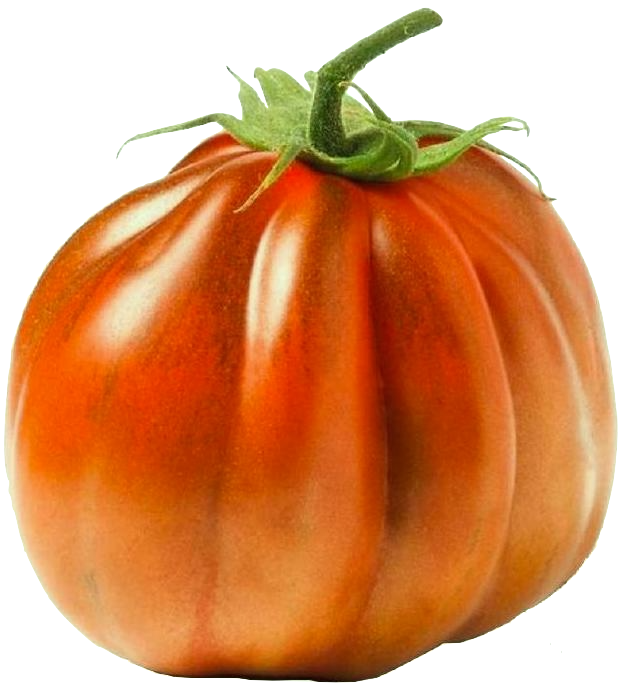
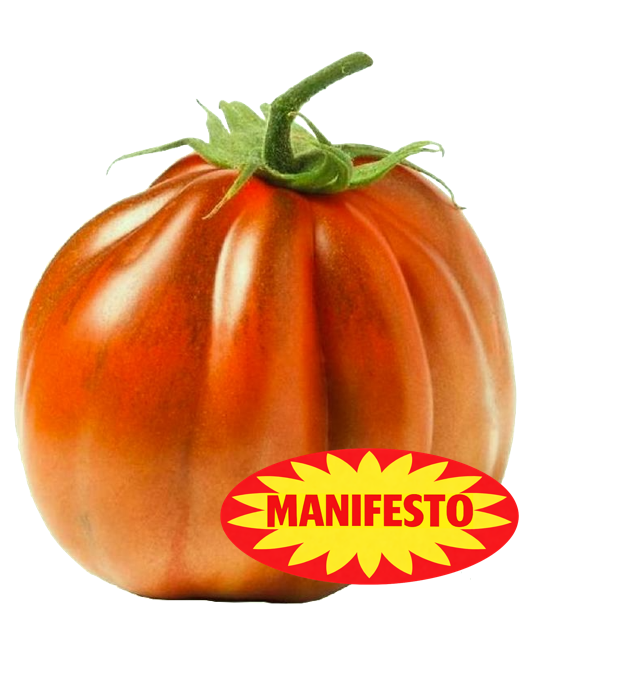
new index

diff --git a/index.html b/index.html
@@ -29,49 +29,43 @@
 <body class="index-body">
     <main>
         <div class="container-fluid">
-            <div class="row d-flex justify-content-evenly align-items-center min-vh-100 text-center">
+            <div class="row d-flex justify-content-center align-items-center min-vh-100 text-center">
 
                 <!-- tomato cards -->
 
-                <!-- MANIFESTO -->
-                <div class="col-12 col-md-2 d-flex justify-content-center align-items-center">
-                    <div class="index-image-card">
-                        <a href="manifesto.html">
-                        <img src="assets/images/tomato08.png" alt="Default view" class="img-default">
-                        <img src="assets/images/Sugo-Splash.png" alt="Hover view" class="img-hover">
-                        <div class="overlay-text">
-                            MANIFESTO
+
+                <div class="index-links">
+                    <!-- MANIFESTO -->
+                    <div class="index-link-item">
+                        <div class="index-image-card mx-3">
+                            <a href="manifesto.html">
+                                <img src="assets/images/tomato.png" alt="Manifesto" class="img-default">
+                                <img src="assets/images/bollino-manifesto.png" alt="" class="hover-tag">
+                            </a>
                         </div>
-                        </a>
+                    </div>
+
+                    <!-- STORE -->
+                    <div class="index-link-item">
+                        <div class="index-image-card mx-3">
+                            <a href="store.html">
+                                <img src="assets/images/tomato.png" alt="Store" class="img-default">
+                                <img src="assets/images/bollino-store.png" alt="" class="hover-tag">
+                            </a>
+                        </div>
+                    </div>
+
+                    <!-- RADIO -->
+                    <div class="index-link-item">
+                        <div class="index-image-card mx-3">
+                            <a href="radio.html">
+                                <img src="assets/images/tomato.png" alt="Radio" class="img-default">
+                                <img src="assets/images/bollino-radio.png" alt="" class="hover-tag">
+                            </a>
+                        </div>
                     </div>
                 </div>
 
-
-                <!-- STORE -->
-                <div class="col-12 col-md-2 d-flex justify-content-center align-items-center">
-                    <div class="index-image-card">
-                        <a href="store.html">
-                        <img src="assets/images/tomato07.png" alt="Default view" class="img-default">
-                        <img src="assets/images/Sugo-Splash.png" alt="Hover view" class="img-hover">
-                        <div class="overlay-text">
-                            STORE
-                        </div>
-                        </a>
-                    </div>
-                </div>
-
-                <!-- RADIO -->
-                <div class="col-12 col-md-2 d-flex justify-content-center align-items-center">
-                    <div class="index-image-card">
-                        <a href="radio.html">
-                        <img src="assets/images/tomato08.png" alt="Default view" class="img-default">
-                        <img src="assets/images/Sugo-Splash.png" alt="Hover view" class="img-hover">
-                        <div class="overlay-text">
-                            RADIO
-                        </div>
-                        </a>
-                    </div>
-                </div>
 
 
             </div>
@@ -79,19 +73,19 @@
     </main>
 
     <!-- Background layer -->
-    <!-- <div class="sugo-logo-layer">   </div> -->
+    <div class="sugo-logo-layer"> </div>
 
 
     <!-- Fontawsome -->
-  <script src="https://kit.fontawesome.com/9e128b115a.js" crossorigin="anonymous"></script>
+    <script src="https://kit.fontawesome.com/9e128b115a.js" crossorigin="anonymous"></script>
 
-  <!-- Bootstrap JavaScript -->
-  <script src="https://cdn.jsdelivr.net/npm/bootstrap@5.3.8/dist/js/bootstrap.bundle.min.js"
-    integrity="sha384-FKyoEForCGlyvwx9Hj09JcYn3nv7wiPVlz7YYwJrWVcXK/BmnVDxM+D2scQbITxI"
-    crossorigin="anonymous"></script>
+    <!-- Bootstrap JavaScript -->
+    <script src="https://cdn.jsdelivr.net/npm/bootstrap@5.3.8/dist/js/bootstrap.bundle.min.js"
+        integrity="sha384-FKyoEForCGlyvwx9Hj09JcYn3nv7wiPVlz7YYwJrWVcXK/BmnVDxM+D2scQbITxI"
+        crossorigin="anonymous"></script>
 
-  <!-- JS -->
-  <script src="assets/js/js.js"></script>
+    <!-- JS -->
+    <script src="assets/js/js.js"></script>
 
 
 </body>

diff --git a/assets/css/style.css b/assets/css/style.css
@@ -47,8 +47,8 @@
     height: 100vh;
     width: 100vw;
     inset: 0;
-    background-image: url("../images/sugo-transparent.png");
-    opacity: 1;
+    background-image: url("../images/sugo.png");
+    opacity: 0.4 !important;
     background-size: cover;
     background-position: center;
     background-repeat: no-repeat;
@@ -76,7 +76,7 @@
     width: 100vw;
     inset: 0;
     background-image: url("../images/sugo-boiling.gif");
-    opacity: 1;
+    opacity: 0.98;
     background-size: cover;
     background-position: center;
     background-repeat: no-repeat;
@@ -99,7 +99,7 @@
 }
 
 .index-body {
-    background-image: url("../images/sugo.png");
+    /* background-image: url("../images/sugo.png"); */
     background-size: cover;
     background-position: center;
     background-repeat: no-repeat;
@@ -109,8 +109,79 @@
 
 /* INDEX-PAGE */
 
-.index-body .col-md-2 {
-    min-width: 235px !important;
+.index-links {
+    display: flex;
+    justify-content: center;
+    align-items: center;
+    gap: 2rem; /* keeps the spacing between the 3 images */
+    flex-wrap: nowrap; /* prevents the 2-on-top / 1-below layout */
+}
+
+.index-link-item {
+    flex: 0 0 auto;
+}
+
+/* NEW TAGS */
+
+.index-image-card {
+    position: relative;
+    height: 200px;
+    width: 230px;
+    overflow: visible;
+}
+
+.index-image-card a {
+    display: block;
+    position: relative;
+    width: 100%;
+    height: 100%;
+}
+
+.index-image-card .img-default {
+    position: absolute;
+    top: 50%;
+    left: 50%;
+    width: 200px;
+    height: auto;
+    transform: translate(-50%, -50%);
+    transition: opacity 0.3s ease;
+    z-index: 1;
+}
+
+.hover-tag {
+    position: absolute;
+    width: 132px;
+    height: auto;
+    right: 8px;
+    bottom: 6px;
+    opacity: 0;
+    transform: translateY(2px);
+    transition: opacity 0.2s ease, transform 0.2s ease;
+    pointer-events: none;
+    z-index: 2;
+}
+
+@media (hover: none) { 
+    .hover-tag {
+        opacity: 1;
+        transform: translateY(0);
+    }
+}
+
+.index-image-card:hover .hover-tag {
+    opacity: 1;
+    transform: translateY(0);
+}
+
+
+/* END NEW TAGS */
+
+/* mobile/tablet: switch straight to column */
+@media (max-width: 900px) {
+    .index-links {
+        flex-direction: column;
+        gap: 1.5rem;
+    }
 }
 
 .index-image-card {
@@ -120,31 +191,33 @@
     overflow: hidden;
 }
 
-.index-image-card img,
+/* .index-image-card img,
 .index-image-card .overlay-text {
     position: absolute;
-}
+} */
 
-.index-image-card img {
+/* .index-image-card img {
     top: 50%;
     left: 50%;
     width: 200px;
     height: auto;
     transform: translate(-50%, -50%);
     transition: opacity 0.3s ease;
-}
+} */
 
 .img-default {
     opacity: 1;
     z-index: 1;
 }
 
-.img-hover {
+
+
+/* .img-hover {
     opacity: 0;
     z-index: 2;
-}
+} */
 
-.overlay-text {
+/* .overlay-text {
     font-family: "Lato", sans-serif;
     z-index: 3;
     top: 50%;
@@ -157,19 +230,19 @@
     opacity: 0;
     transition: opacity 0.3s ease;
     pointer-events: none;
-}
+} */
 
-.index-image-card:hover .img-default {
+/* .index-image-card:hover .img-default {
     opacity: 0;
-}
+} */
 
-.index-image-card:hover .img-hover {
+/* .index-image-card:hover .img-hover {
     opacity: 0.6;
-}
+} */
 
-.index-image-card:hover .overlay-text {
+/* .index-image-card:hover .overlay-text {
     opacity: 1;
-}
+} */
 
 
 /* NAVBAR */
@@ -301,7 +374,8 @@
 .manifesto-text {
     font-family: "Roboto Mono", monospace;
     color: white;
-    font-weight: 100 !important;
+    /* font-size: 0.9rem; */
+    font-weight: 200 !important;
     text-align: justify;
     /* text-shadow:
         -1px -1px 0 rgba(165, 0, 0, 0.6),
@@ -354,7 +428,7 @@
     position: fixed;
     top: 26px;
     right: 24px;
-    z-index: 2;
+    z-index: 999;
     display: flex;
     gap: 10px;
 }

diff --git a/manifesto.html b/manifesto.html
@@ -150,7 +150,7 @@
     <!-- Background layer -->
     <div class="sugo-logo-layer-manifesto"> </div>
     <!-- Background layer -->
-    <!-- <div class="sugo-logo-layer-transparent"> </div> -->
+    <div class="sugo-logo-layer-transparent"> </div>
 
 
 
